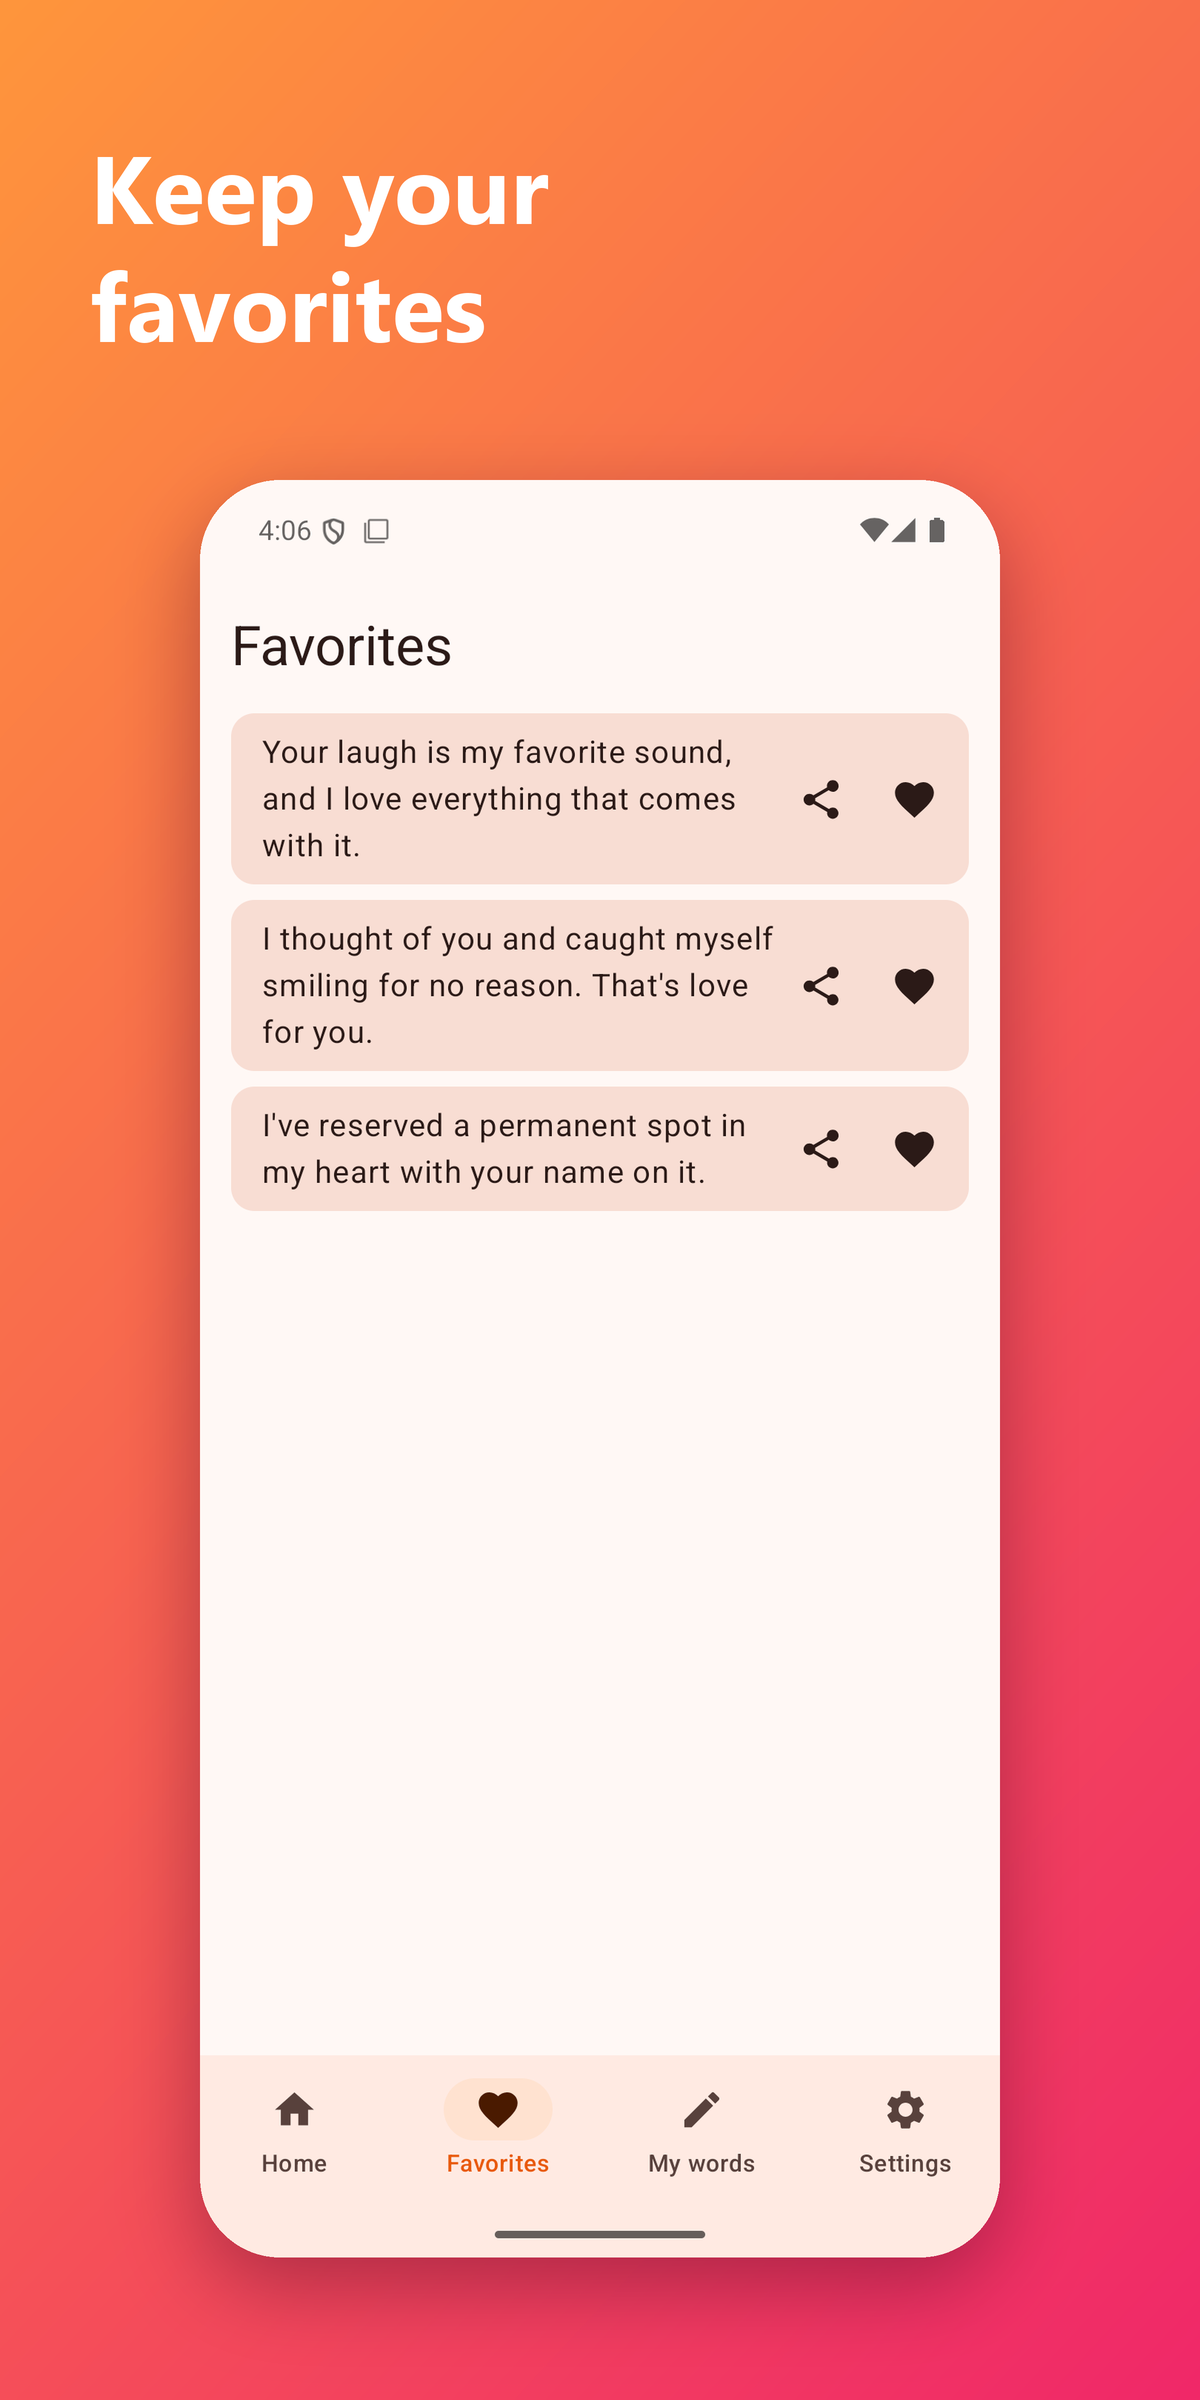
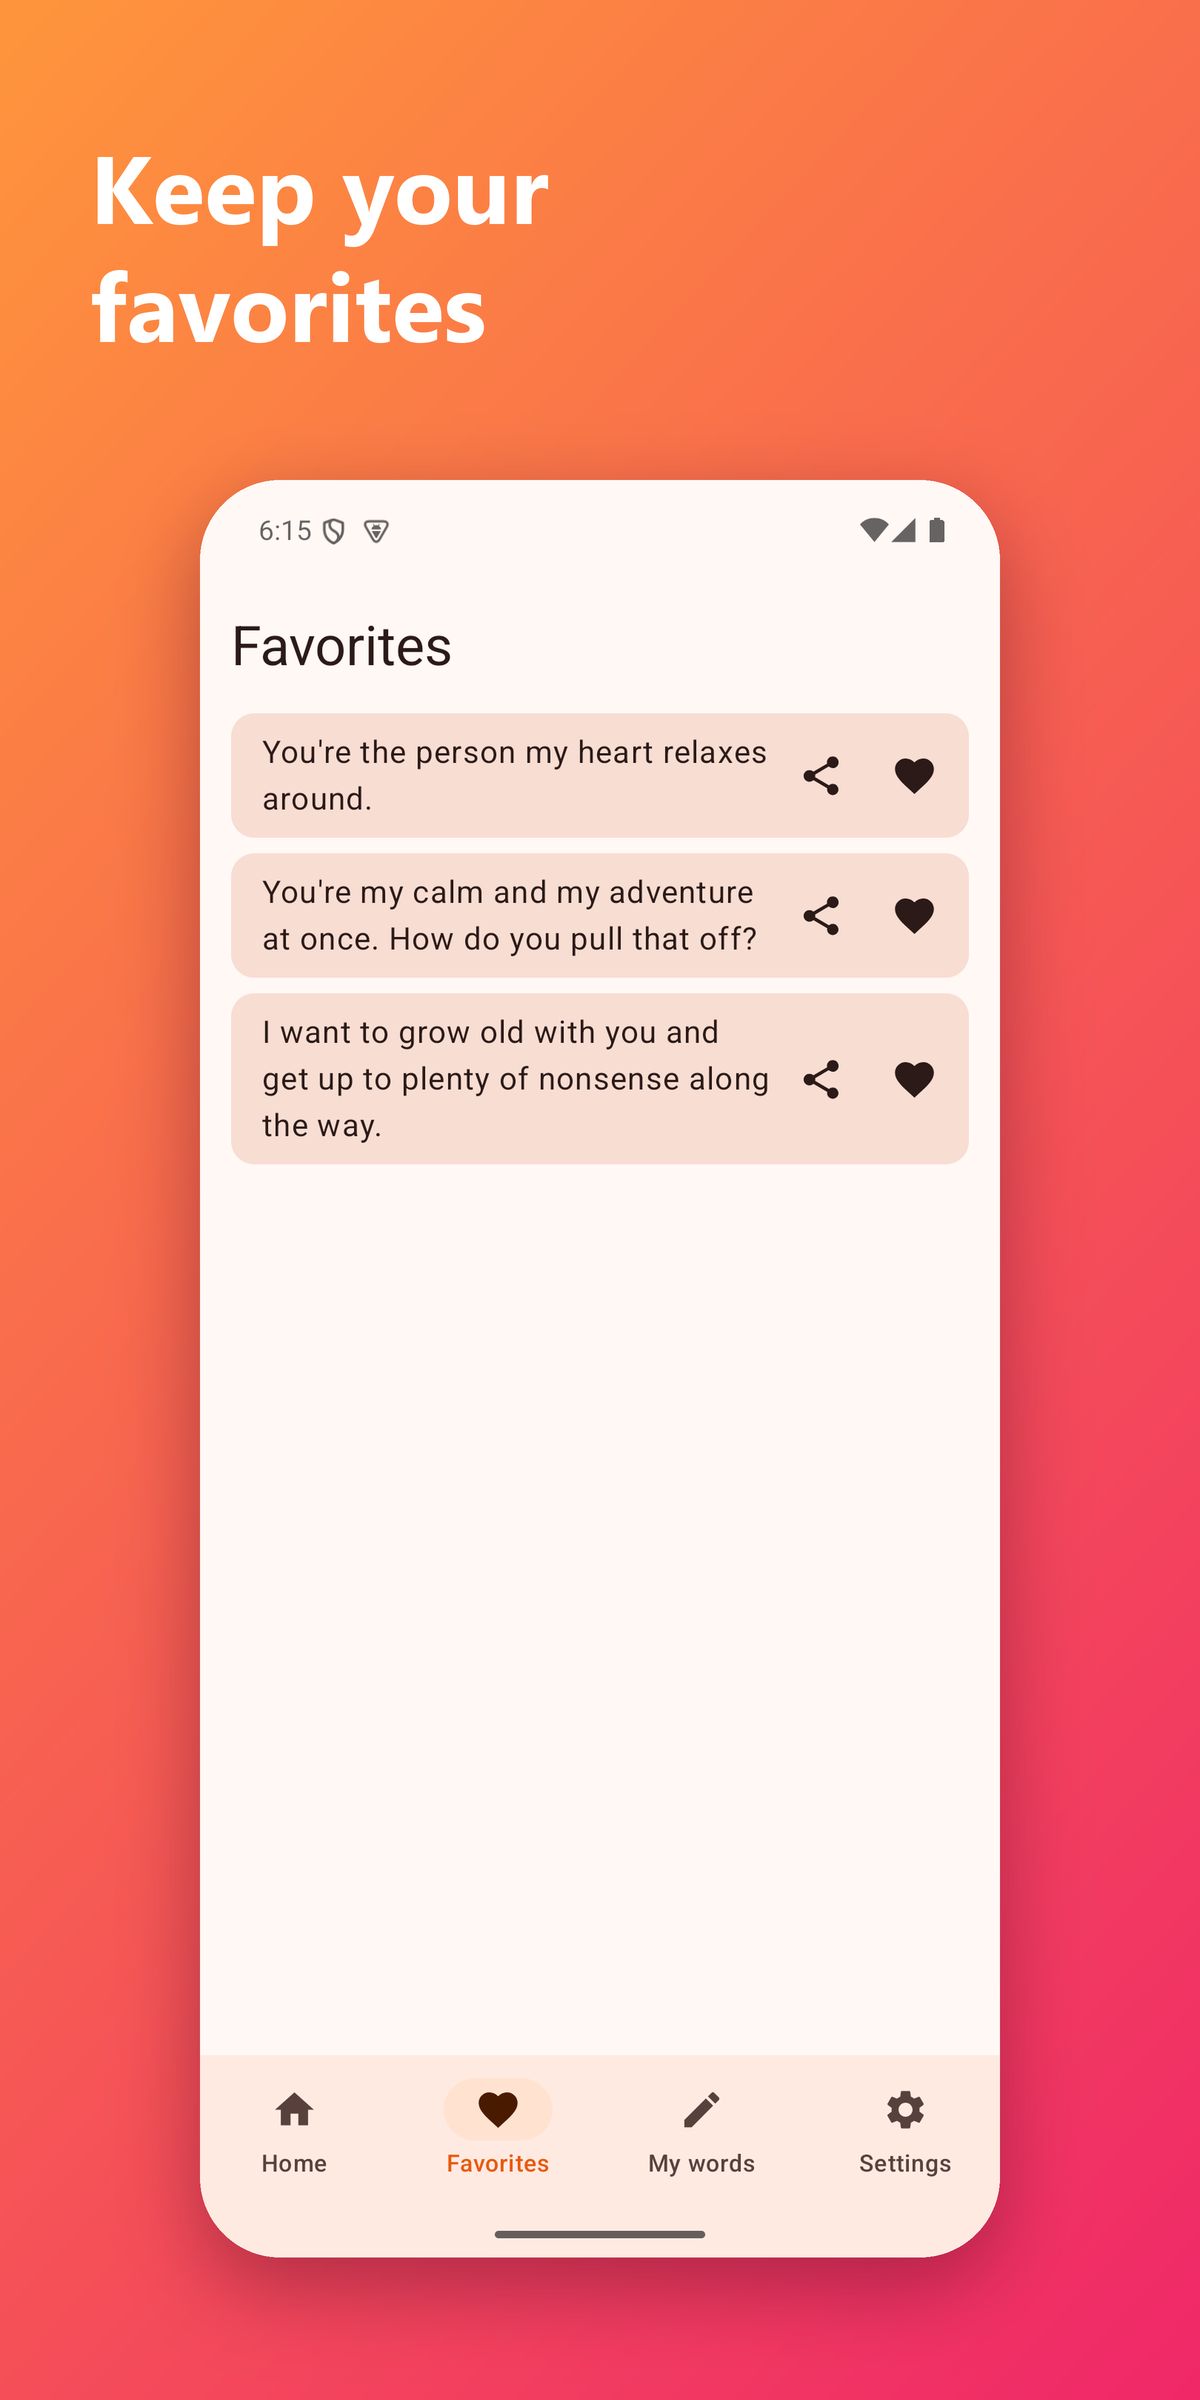
Switch whole app language (UI + sentences), localized notification; versionCode 3; refresh screenshots

Changed region(s): [[0.185, 0.3125, 0.8325, 0.5312]]

diff --git a/app/src/main/java/app/rpkindwords/ui/SettingsScreen.kt b/app/src/main/java/app/rpkindwords/ui/SettingsScreen.kt
@@ -48,6 +48,9 @@ import androidx.compose.runtime.setValue
 import androidx.compose.ui.Alignment
 import androidx.compose.ui.Modifier
 import androidx.compose.ui.platform.LocalContext
+import android.app.Activity
+import androidx.compose.runtime.rememberCoroutineScope
+import kotlinx.coroutines.launch
 import androidx.compose.ui.res.pluralStringResource
 import androidx.compose.ui.res.stringResource
 import androidx.compose.ui.unit.dp
@@ -97,6 +100,14 @@ fun SettingsScreen(vm: MainViewModel, modifier: Modifier = Modifier) {
     var picking by remember { mutableStateOf<PickTarget?>(null) }
     LifecycleResumeEffect(Unit) { tick++; onPauseOrDispose { } }
     val canPost = remember(tick, s.enabled, permissionDenied) { NotificationHelper.canPost(context) }
+
+    val scope = rememberCoroutineScope()
+    val changeLanguage: (String?) -> Unit = { lang ->
+        scope.launch {
+            vm.setContentLanguage(lang)
+            (context as? Activity)?.recreate() // lädt alle Texte in der neuen Sprache
+        }
+    }
 
     val launcher = rememberLauncherForActivityResult(ActivityResultContracts.RequestPermission()) { granted ->
         permissionDenied = !granted
@@ -178,9 +189,9 @@ fun SettingsScreen(vm: MainViewModel, modifier: Modifier = Modifier) {
         SectionTitle(R.string.settings_language)
         Text(stringResource(R.string.settings_language_info), style = MaterialTheme.typography.bodyMedium)
         Row(Modifier.horizontalScroll(rememberScrollState()), horizontalArrangement = Arrangement.spacedBy(8.dp)) {
-            FilterChip(selected = langOverride == null, onClick = { vm.setContentLanguage(null) }, label = { Text(stringResource(R.string.lang_system)) })
-            FilterChip(selected = langOverride == "de", onClick = { vm.setContentLanguage("de") }, label = { Text(stringResource(R.string.lang_de)) })
-            FilterChip(selected = langOverride == "en", onClick = { vm.setContentLanguage("en") }, label = { Text(stringResource(R.string.lang_en)) })
+            FilterChip(selected = langOverride == null, onClick = { changeLanguage(null) }, label = { Text(stringResource(R.string.lang_system)) })
+            FilterChip(selected = langOverride == "de", onClick = { changeLanguage("de") }, label = { Text(stringResource(R.string.lang_de)) })
+            FilterChip(selected = langOverride == "en", onClick = { changeLanguage("en") }, label = { Text(stringResource(R.string.lang_en)) })
         }
 
         val donateUrl = stringResource(R.string.donate_url)

diff --git a/app/src/main/java/app/rpkindwords/reminder/Reminders.kt b/app/src/main/java/app/rpkindwords/reminder/Reminders.kt
@@ -17,6 +17,7 @@ import app.rpkindwords.KindWordsApp
 import app.rpkindwords.MainActivity
 import app.rpkindwords.R
 import app.rpkindwords.data.Languages
+import app.rpkindwords.data.LocaleContext
 import kotlinx.coroutines.CoroutineScope
 import kotlinx.coroutines.Dispatchers
 import kotlinx.coroutines.launch
@@ -48,8 +49,10 @@ object NotificationHelper {
         return NotificationManagerCompat.from(context).areNotificationsEnabled()
     }
 
-    fun show(context: Context, text: String) {
+    fun show(base: Context, text: String, lang: String? = null) {
+        val context = LocaleContext.wrap(base, lang)
         if (!canPost(context)) return
+        createChannel(context)
         val flags = PendingIntent.FLAG_IMMUTABLE or PendingIntent.FLAG_UPDATE_CURRENT
         val open = PendingIntent.getActivity(context, 0, Intent(context, MainActivity::class.java), flags)
         val chooser = Intent.createChooser(ShareIntents.send(text), null).addFlags(Intent.FLAG_ACTIVITY_NEW_TASK)
@@ -113,7 +116,7 @@ class ReminderReceiver : BroadcastReceiver() {
                 if (fire && settings.enabled) {
                     app.messages.ensureSeeded()
                     val lang = app.settings.contentLanguageOverride.first() ?: Languages.resolve(Locale.getDefault().language)
-                    app.messages.random(lang, null, null)?.let { NotificationHelper.show(app, it.text) }
+                    app.messages.random(lang, null, null)?.let { NotificationHelper.show(app, it.text, lang) }
                 }
                 // Boot/Update: Alarme sind weg -> neu planen. Zeit-/Zonenwechsel und Auslösung: ersetzen.
                 val keep = intent.action == Intent.ACTION_BOOT_COMPLETED || intent.action == Intent.ACTION_MY_PACKAGE_REPLACED

diff --git a/app/src/main/java/app/rpkindwords/MainActivity.kt b/app/src/main/java/app/rpkindwords/MainActivity.kt
@@ -1,15 +1,26 @@
 package app.rpkindwords
 
+import android.content.Context
 import android.os.Bundle
 import androidx.activity.ComponentActivity
 import androidx.activity.compose.setContent
 import androidx.activity.enableEdgeToEdge
 import androidx.activity.viewModels
+import app.rpkindwords.data.LocaleContext
+import app.rpkindwords.data.SettingsRepository
 import app.rpkindwords.ui.MainScreen
 import app.rpkindwords.ui.theme.KindWordsTheme
+import kotlinx.coroutines.flow.first
+import kotlinx.coroutines.runBlocking
 
 class MainActivity : ComponentActivity() {
     private val vm: MainViewModel by viewModels()
+
+    /** Oberfläche in der gewählten Sprache anzeigen (Einstellungen > Sprache), sonst Systemsprache. */
+    override fun attachBaseContext(newBase: Context) {
+        val lang = runBlocking { SettingsRepository(newBase).contentLanguageOverride.first() }
+        super.attachBaseContext(LocaleContext.wrap(newBase, lang))
+    }
 
     override fun onCreate(savedInstanceState: Bundle?) {
         super.onCreate(savedInstanceState)

diff --git a/app/src/main/java/app/rpkindwords/data/LocaleContext.kt b/app/src/main/java/app/rpkindwords/data/LocaleContext.kt
@@ -1,0 +1,18 @@
+package app.rpkindwords.data
+
+import android.content.Context
+import android.content.res.Configuration
+import android.os.LocaleList
+import java.util.Locale
+
+/** Liefert einen Context, dessen Ressourcen in der gewählten App-Sprache laden (null = Systemsprache). */
+object LocaleContext {
+    fun wrap(base: Context, lang: String?): Context {
+        if (lang == null) return base
+        val locale = Locale.forLanguageTag(lang)
+        val config = Configuration(base.resources.configuration)
+        config.setLocale(locale)
+        config.setLocales(LocaleList(locale))
+        return base.createConfigurationContext(config)
+    }
+}

diff --git a/app/src/main/java/app/rpkindwords/MainViewModel.kt b/app/src/main/java/app/rpkindwords/MainViewModel.kt
@@ -73,7 +73,7 @@ class MainViewModel(application: Application) : AndroidViewModel(application) {
     }
 
     fun selectCategory(c: String?) { _category.value = c }
-    fun setContentLanguage(lang: String?) { viewModelScope.launch { settings.setContentLanguage(lang) } }
+    suspend fun setContentLanguage(lang: String?) { settings.setContentLanguage(lang) }
     fun toggleFavorite(m: MessageEntity) { viewModelScope.launch { messages.setFavorite(m.id, !m.favorite) } }
 
     fun addUserMessage(text: String) {

diff --git a/BRAIN.md b/BRAIN.md
@@ -43,3 +43,7 @@ Das „Gehirn“ des Projekts: Entscheidungen, Fakten, Fallstricke. Wird von Men
 - Getestet (Release-Build, Emulator API 35): Alarm gesetzt, nach Neustart neu geplant, Benachrichtigung erscheint, Teilen öffnet System-Dialog mit dem Satz. Im Emulator steht eine frisch gestartete App nach Reboot im Bucket NEVER/Rare (Alarm +364 Tage) → zum Testen `adb shell am set-standby-bucket app.rpkindwords active`.
 - Wochentage-Chips: FlowRow statt horizontalem Scrollen (Sonntag war sonst nicht sichtbar).
 - 2026-10-25 · Offen · Sprachumstellung stellt nur die Sätze um, nicht die UI-Texte; Nutzer will beides (siehe TODO.md, nächste Session).
+
+## Sprache & Datenpflege (2026-10-26)
+- Sprache: `MainActivity.attachBaseContext` lädt Ressourcen in der gewählten Sprache (DataStore `content_lang`, null = System); Wechsel in den Einstellungen speichert und ruft `recreate()` auf. Benachrichtigungen nutzen `LocaleContext.wrap(…, lang)`.
+- Updates: Room ohne Destructive-Fallback; `USER`-Sätze und Favoriten bleiben (getestet). **Jede Schema-Änderung braucht eine Migration + exportiertes Schema, nie `fallbackToDestructiveMigration`.** Bundled-IDs stabil halten (Favoriten hängen an der ID). Neuinstallation/Gerätewechsel verliert Daten (allowBackup=false).

diff --git a/.claude/agent-memory/SHARED.md b/.claude/agent-memory/SHARED.md
@@ -20,3 +20,5 @@ Format: `YYYY-MM-DD · Thema · Regel · Warum`
 - 2026-10-25 · Erinnerungen · Zeitkritische Reminder NICHT mit WorkManager/JobScheduler (Standby-Bucket-Quoten blockieren Jobs), sondern AlarmManager.setAndAllowWhileIdle; Emulator-Test: `am set-standby-bucket <pkg> active`, `dumpsys alarm` (policyWhenElapsed/app_standby) · Fehler gefunden beim Release-Test.
 - 2026-10-25 · Tests · `cmd jobscheduler run -f` startet WorkManager-Jobs nur kurz und bricht sie ab, solange die Wartezeit nicht erreicht ist → kein verlässlicher Test; echte Fälligkeit abwarten. adb `force-stop` löst bei WorkManager "Application was force-stopped, rescheduling" aus.
 - 2026-10-25 · UI · Horizontal scrollende Chip-Reihen verstecken Inhalte (Sonntag); für kurze Auswahllisten FlowRow nutzen.
+- 2026-10-26 · Daten · Room-Schema ändern ⇒ Migration schreiben + Schema exportieren, nie destruktiv; bundled-IDs nie ändern (Favoriten hängen an ihnen) · Nutzer: Favoriten/eigene Sätze müssen Updates überleben (getestet).
+- 2026-10-26 · Sprache · UI-Sprache per attachBaseContext + recreate(); LocaleContext.wrap für Benachrichtigungen; nach Sprachwechsel Settings-Tab bleibt erhalten · ersetzt reine Inhaltssprache.

diff --git a/TODO.md b/TODO.md
@@ -31,5 +31,11 @@ Legende: `[ ]` offen · `[x]` erledigt · Agent in Klammern
 - [ ] Testphasen, Produktion
 
 
-## Nächste Session (vom Nutzer am 2026-10-25 notiert)
-- [ ] Sprachumstellung: In den Einstellungen ändert "Inhaltssprache" nur die Sätze, nicht die App-Oberfläche (Buttons, Menüs, Tabs bleiben in der Systemsprache). Soll vollständig umgestellt werden (UI + Sätze). Ansatz prüfen: `AppCompatDelegate.setApplicationLocales` bzw. `LocaleManager` (per-App-Sprache, bereits über `locales_config` vorbereitet), Inhaltssprache daran koppeln.
+## Erledigt am 2026-10-26
+- [x] Sprachumstellung: Einstellung "Sprache" stellt jetzt die ganze App um (Oberfläche, Kategorien, Sätze, Benachrichtigung); Activity wird neu erstellt. Im Emulator getestet (de <-> en <-> System).
+- [x] Update-Test: Favoriten und eigene Sätze bleiben nach Update (versionCode 2 -> 3) erhalten.
+
+## Offen
+- [ ] Spenden-Button: vorhanden in Einstellungen; Nutzer wünscht evtl. weitere Platzierung (Rückfrage).
+- [ ] Play Console ausfüllen und Bundle hochladen (Nutzer; Anmeldung/Zahlungsdaten nicht durch Claude)
+- [ ] Optional: Auto-Backup für Favoriten/eigene Sätze bei Gerätewechsel (würde Datenschutztext + Data Safety ändern)
